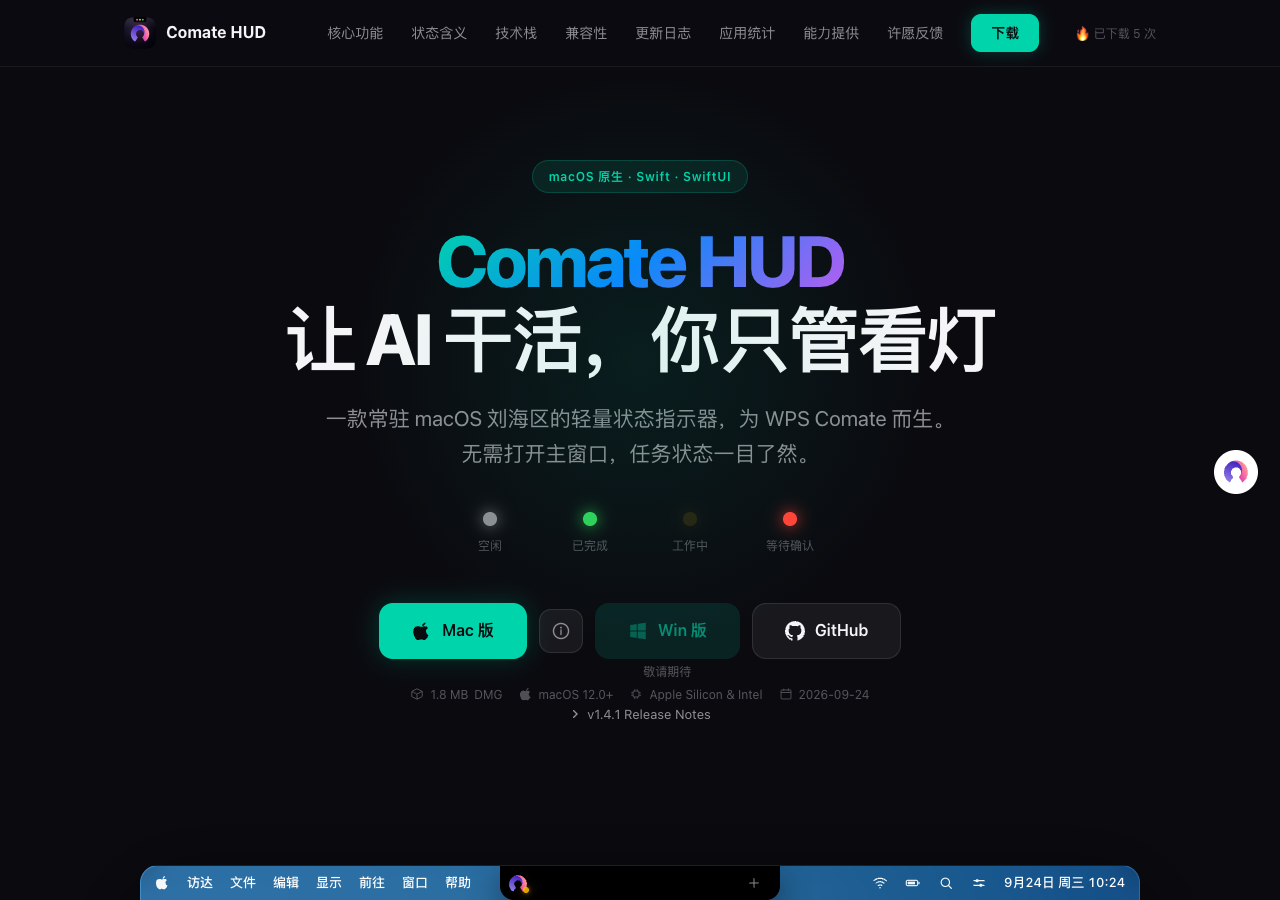
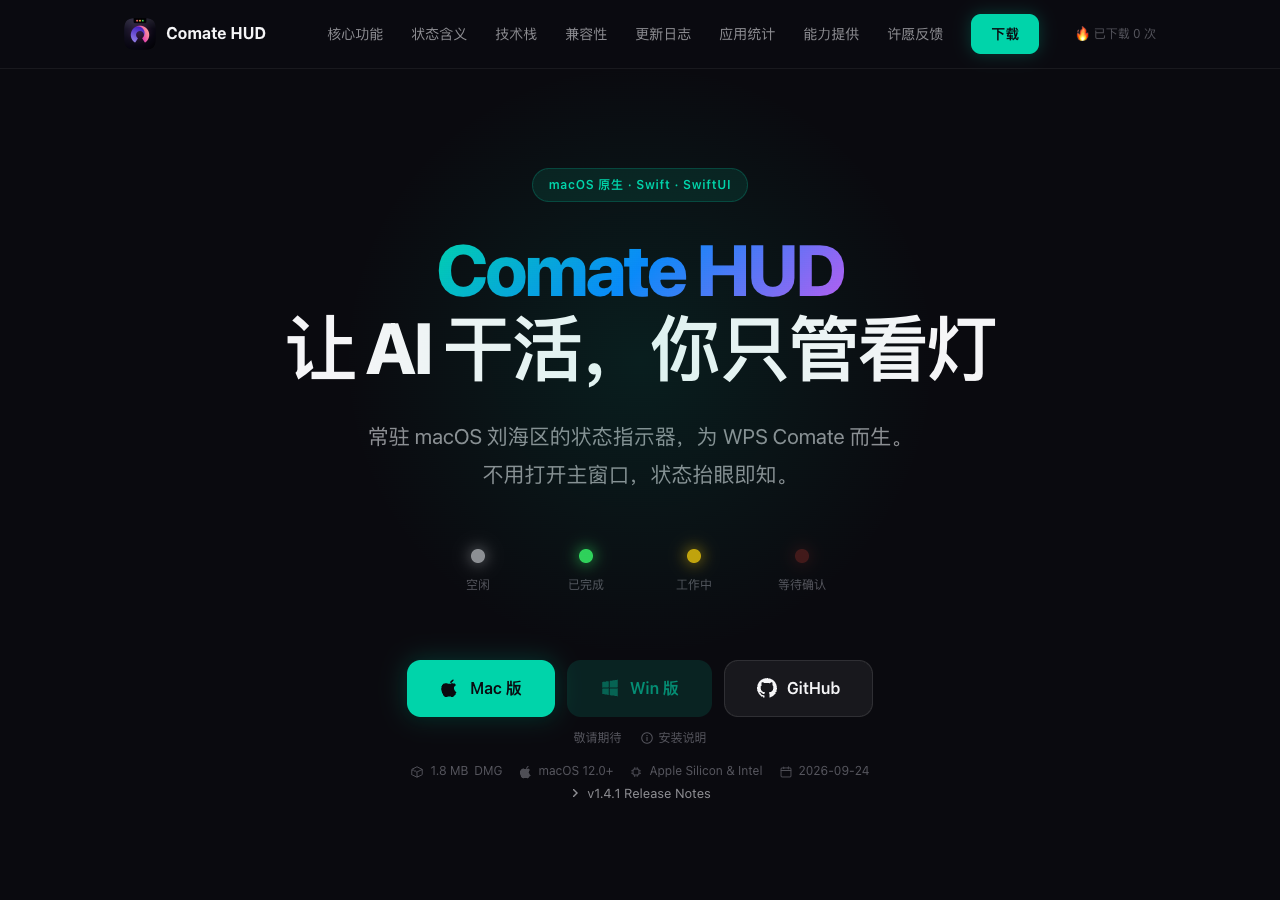
sync: push at 1790278997

diff --git a/ComateHUD/index.html b/ComateHUD/index.html
@@ -39,7 +39,7 @@
     .btn-sm { display: inline-flex; align-items: center; padding: 8px 20px; border-radius: 10px; font-size: 13px; font-weight: 600; text-decoration: none; background: var(--accent) !important; color: #0a0a0f !important; box-shadow: 0 0 16px var(--accent-glow); transition: all 0.2s; }
     .btn-sm:hover { transform: translateY(-1px); box-shadow: 0 0 24px var(--accent-glow); }
     .hero { padding: 168px 0 96px; text-align: center; position: relative; }
-    .hero::before { content: ''; position: absolute; top: 60px; left: 50%; transform: translateX(-50%); width: 600px; height: 600px; background: radial-gradient(circle, var(--accent-glow) 0%, transparent 70%); opacity: 0.4; pointer-events: none; }
+    .hero::before { content: ''; position: absolute; top: 60px; left: 50%; transform: translateX(-50%); width: min(600px, 100vw); height: min(600px, 100vw); background: radial-gradient(circle, var(--accent-glow) 0%, transparent 70%); opacity: 0.4; pointer-events: none; }
     .hero h1 { font-size: clamp(42px,7vw,72px); font-weight: 800; line-height: 1.08; letter-spacing: -0.04em; margin-bottom: 32px; }
     .hero h1 .gradient { background: linear-gradient(135deg, var(--accent) 0%, var(--blue) 50%, var(--purple) 100%); -webkit-background-clip: text; -webkit-text-fill-color: transparent; background-clip: text; }
     .hero .subtitle { font-size: clamp(17px,2.4vw,21px); color: var(--text-secondary); max-width: 640px; margin: 0 auto 56px; line-height: 1.8; }
@@ -69,7 +69,7 @@
     .release-toggle summary:hover { color: var(--text); }
     .release-toggle summary svg { transition: transform 0.2s; }
     .release-toggle[open] summary svg { transform: rotate(90deg); }
-    .release-body { margin-top: 14px; padding: 24px 28px; background: var(--bg-card); border: 1px solid rgba(255,255,255,0.06); border-radius: 16px; font-size: 13px; color: var(--text-secondary); line-height: 1.9; text-align: left; max-width: 520px; margin-left: auto; margin-right: auto; }
+    .release-body { margin-top: 14px; padding: 24px 28px; background: var(--bg-card); border: 1px solid rgba(255,255,255,0.06); border-radius: 16px; font-size: 13px; color: var(--text-secondary); line-height: 1.9; text-align: left; max-width: 520px; margin-left: auto; margin-right: auto; overflow-wrap: anywhere; }
     .release-body .rv { font-weight: 700; color: var(--text); font-size: 15px; margin-bottom: 10px; }
 
     /* ---- 下载区块：公共信息行 / 按钮行 / 元信息行 / 安装说明气泡 ---- */
@@ -447,6 +447,10 @@
           <svg viewBox="0 0 24 24" fill="currentColor" aria-hidden="true"><path d="M2.6 4.9 10.4 3.7v7.6H2.6zM11.6 3.5 21.4 2.1v9.2h-9.8zM2.6 12.7h7.8v7.6L2.6 19.1zM11.6 12.7h9.8v9.2l-9.8-1.4z"/></svg>
           <span>Win 版</span>
         </span>
+        <a href="https://github.com/likelu9/comate-hud" class="btn-download btn-secondary" target="_blank" rel="noopener">
+          <svg viewBox="0 0 16 16" fill="currentColor" aria-hidden="true"><path d="M8 0C3.58 0 0 3.58 0 8c0 3.54 2.29 6.53 5.47 7.59.4.07.55-.17.55-.38 0-.19-.01-.82-.01-1.49-2.01.37-2.53-.49-2.69-.94-.09-.23-.48-.94-.82-1.13-.28-.15-.68-.52-.01-.53.63-.01 1.08.58 1.23.82.72 1.21 1.87.87 2.33.66.07-.52.28-.87.51-1.07-1.78-.2-3.64-.89-3.64-3.95 0-.87.31-1.59.82-2.15-.08-.2-.36-1.02.08-2.12 0 0 .67-.21 2.2.82a7.4 7.4 0 0 1 2-.27c.68 0 1.36.09 2 .27 1.53-1.04 2.2-.82 2.2-.82.44 1.1.16 1.92.08 2.12.51.56.82 1.27.82 2.15 0 3.07-1.87 3.75-3.65 3.95.29.25.54.73.54 1.48 0 1.07-.01 1.93-.01 2.2 0 .21.15.46.55.38A8.01 8.01 0 0 0 16 8c0-4.42-3.58-8-8-8z"/></svg>
+          <span>GitHub</span>
+        </a>
       </div>
       <div class="dl-subline">
         <span class="dl-win-note" id="dl-win-note">敬请期待</span>
